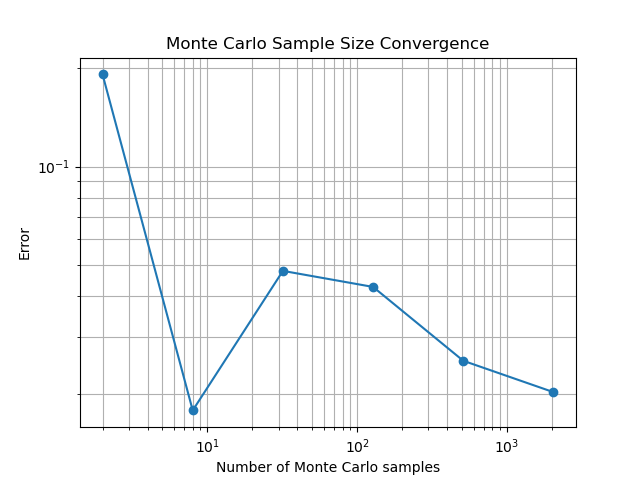
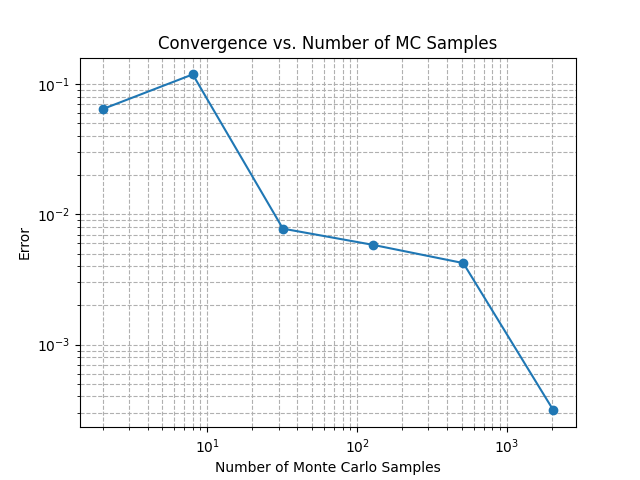
Add files via upload
codes and pictures for full question 1

diff --git a/SCDAA/LQR_Solver.py b/SCDAA/LQR_Solver.py
@@ -1,0 +1,254 @@
+import numpy as np
+import torch
+import matplotlib.pyplot as plt
+from scipy.integrate import solve_ivp
+import time
+
+class LQR_Solver:
+    """
+    A class to solve the strict LQR problem in 2 spatial and 2 control dimensions.
+    
+    It:
+      1. Accepts the matrices specifying the LQR problem, final time T, and a time grid.
+      2. Solves the Riccati ODE backwards in time:
+         S'(t) = S(t) M D⁻¹ Mᵀ S(t) - Hᵀ S(t) - S H - C, with S(T)=R.
+      3. Provides a method to compute the value function
+         v(t, x) = xᵀ S(t)x + ∫ₜᵀ tr(σσᵀ S(r)) dr.
+      4. Provides a method to compute the optimal Markov control:
+         a(t,x) = -D⁻¹ Mᵀ S(t)x.
+    """
+    def __init__(self, H, M, sigma, C, D, R, T, time_grid):
+        # All matrices are expected to be torch tensors.
+        self.H = H
+        self.M = M
+        self.sigma = sigma
+        self.C = C
+        self.D = D
+        self.R = R
+        self.T = T
+        self.time_grid = time_grid  # Assumed sorted in increasing order.
+        self.device = H.device
+        self.S_sol = None  # To store solution S(t) at grid points.
+        self.integral = None  # To store the cumulative integral term.
+
+    def riccati_ode(self, t, S_flat):
+        # Reshape the flat vector to a 2x2 matrix.
+        S = S_flat.reshape((2, 2))
+        # Invert D using numpy.
+        D_inv = np.linalg.inv(self.D.cpu().numpy())
+        # Compute S'(t) = S M D⁻¹ Mᵀ S - Hᵀ S - S H - C.
+        term1 = S @ self.M.cpu().numpy() @ D_inv @ (self.M.cpu().numpy().T) @ S
+        term2 = self.H.cpu().numpy().T @ S
+        term3 = S @ self.H.cpu().numpy()
+        S_dot = term1 - term2 - term3 - self.C.cpu().numpy()
+        return S_dot.flatten()
+
+    def solve_riccati(self):
+        # Terminal condition S(T) = R.
+        S_T = self.R.cpu().numpy().flatten()
+        # Solve the ODE backwards from T to 0. Note that we reverse the time grid.
+        t_eval = self.time_grid.cpu().numpy()[::-1]
+        sol = solve_ivp(fun=self.riccati_ode, t_span=(self.T, 0), y0=S_T, t_eval=t_eval, method='RK45')
+        # Reverse the solution to get increasing time order and reshape.
+        S_vals = sol.y[:, ::-1].T  # S_vals shape: (len(time_grid), 4)
+        # Create a contiguous copy to avoid negative stride issues.
+        S_vals = np.ascontiguousarray(S_vals.reshape((-1, 2, 2)))
+        self.S_sol = torch.tensor(S_vals, dtype=self.R.dtype, device=self.device)
+        
+        # Precompute the cumulative integral I(t) = ∫ₜᵀ tr(σσᵀ S(r)) dr using the trapezoidal rule.
+        sigma_sigmaT = self.sigma @ self.sigma.T  # 2x2 matrix.
+        traces = []
+        for i in range(len(self.time_grid)):
+            S_i = self.S_sol[i]
+            traces.append(torch.trace(sigma_sigmaT @ S_i).item())
+        traces = np.array(traces)
+        cum_integral = np.zeros_like(traces)
+        for i in range(len(self.time_grid)):
+            t_sub = self.time_grid[i:].cpu().numpy()
+            y_sub = traces[i:]
+            cum_integral[i] = np.trapz(y_sub, t_sub)
+        self.integral = torch.tensor(cum_integral, dtype=self.R.dtype, device=self.device)
+    
+    def get_S_at_time(self, t_query):
+        """
+        For a given time t_query, return S(t) at the largest grid time ≤ t_query.
+        """
+        idx = (self.time_grid <= t_query).nonzero()
+        if len(idx) == 0:
+            i = 0
+        else:
+            i = idx[-1].item()
+        return self.S_sol[i], i
+
+    def compute_value(self, t, x):
+        """
+        Computes the value function v(t, x) = xᵀ S(t)x + ∫ₜᵀ tr(σσᵀ S(r)) dr.
+        
+        Parameters:
+          t: 1D torch tensor of times.
+          x: 2D torch tensor where each row is a state vector.
+          
+        Returns:
+          A 1D torch tensor of values.
+        """
+        values = []
+        for i in range(len(t)):
+            t_i = t[i].item()
+            S_i, idx = self.get_S_at_time(t_i)
+            x_i = x[i].unsqueeze(-1)  # Convert to column vector.
+            val = (x_i.t() @ S_i @ x_i).squeeze() + self.integral[idx]
+            values.append(val)
+        return torch.stack(values)
+    
+    def compute_control(self, t, x):
+        """
+        Computes the optimal control a(t, x) = -D⁻¹ Mᵀ S(t)x.
+        
+        Parameters:
+          t: 1D torch tensor of times.
+          x: 2D torch tensor where each row is a state vector.
+          
+        Returns:
+          A 2D torch tensor where each row is the control vector.
+        """
+        controls = []
+        D_inv = torch.inverse(self.D)
+        for i in range(len(t)):
+            t_i = t[i].item()
+            S_i, _ = self.get_S_at_time(t_i)
+            x_i = x[i].unsqueeze(-1)
+            u_i = - D_inv @ (self.M.t() @ S_i) @ x_i
+            controls.append(u_i.squeeze())
+        return torch.stack(controls)
+
+
+def simulate_LQR_MC(lqr_solver, t0, x0, N, n_samples, scheme="explicit"):
+    """
+    Simulate the LQR controlled SDE:
+       dX = (H X + M a(t, X)) dt + sigma dW,
+    using the optimal control a(t, x) from the solved Riccati ODE.
+    
+    Parameters:
+      lqr_solver: Instance of LQR_Solver (with solved Riccati).
+      t0: Initial time (float).
+      x0: Initial state (torch tensor of shape (2,)).
+      N: Number of time steps.
+      n_samples: Number of Monte Carlo trajectories.
+      scheme: "explicit" (implicit scheme not implemented here).
+    
+    Returns:
+      avg_cost: Monte Carlo estimate of the cost.
+      X: Simulated trajectories (tensor of shape (n_samples, N+1, 2)).
+      t_grid: Time grid used for the simulation.
+    """
+    T = lqr_solver.T
+    tau = (T - t0) / N
+    t_grid = torch.linspace(t0, T, N+1, device=lqr_solver.device, dtype=lqr_solver.R.dtype)
+    X = torch.zeros(n_samples, N+1, 2, device=lqr_solver.device, dtype=lqr_solver.R.dtype)
+    X[:, 0, :] = x0
+    # Generate Brownian increments (dW ~ N(0, tau)).
+    dW = torch.randn(n_samples, N, 2, device=lqr_solver.device, dtype=lqr_solver.R.dtype) * np.sqrt(tau)
+    for n in range(N):
+        t_n = t_grid[n].repeat(n_samples)
+        x_n = X[:, n, :]
+        u_n = lqr_solver.compute_control(t_n, x_n)
+        # Drift: H*x + M*u.
+        drift = (lqr_solver.H @ x_n.unsqueeze(-1)).squeeze(-1) + (lqr_solver.M @ u_n.unsqueeze(-1)).squeeze(-1)
+        noise = (lqr_solver.sigma @ dW[:, n, :].unsqueeze(-1)).squeeze(-1)
+        X[:, n+1, :] = x_n + tau * drift + noise
+    # Compute cost: running cost ∫ₜᵀ (xᵀ C x + uᵀ D u) dt plus terminal cost x(T)ᵀ R x(T).
+    cost = torch.zeros(n_samples, device=lqr_solver.device, dtype=lqr_solver.R.dtype)
+    for n in range(N):
+        x_n = X[:, n, :]
+        t_n = t_grid[n].repeat(n_samples)
+        u_n = lqr_solver.compute_control(t_n, x_n)
+        running_cost = (x_n.unsqueeze(1) @ lqr_solver.C @ x_n.unsqueeze(-1)).squeeze() + \
+                       (u_n.unsqueeze(1) @ lqr_solver.D @ u_n.unsqueeze(-1)).squeeze()
+        cost += running_cost * tau
+    x_T = X[:, -1, :]
+    terminal_cost = (x_T.unsqueeze(1) @ lqr_solver.R @ x_T.unsqueeze(-1)).squeeze()
+    cost += terminal_cost
+    avg_cost = cost.mean().item()
+    return avg_cost, X, t_grid
+
+
+if __name__ == "__main__":
+    # ----------------------
+    # Problem constants (from Figure 1)
+    # ----------------------
+    dtype = torch.float64
+    device = "cpu"
+    H = torch.tensor([[1.0, 1.0], [0.0, 1.0]], dtype=dtype, device=device) * 0.5
+    M = torch.tensor([[1.0, 1.0], [0.0, 1.0]], dtype=dtype, device=device)
+    sigma = torch.eye(2, dtype=dtype, device=device) * 0.5
+    C = torch.tensor([[1.0, 0.1], [0.1, 1.0]], dtype=dtype, device=device) * 1.0
+    D = torch.tensor([[1.0, 0.1], [0.1, 1.0]], dtype=dtype, device=device) * 0.1
+    R = torch.tensor([[1.0, 0.3], [0.3, 1.0]], dtype=dtype, device=device) * 10.0
+    T = 0.5  # Final time for the simulation experiments.
+    
+    # ----------------------
+    # Solve the Riccati ODE (Exercise 1.1)
+    # ----------------------
+    time_grid = torch.linspace(0, T, 100, dtype=dtype, device=device)
+    lqr_solver = LQR_Solver(H, M, sigma, C, D, R, T, time_grid)
+    
+    print("Solving the Riccati ODE...")
+    start = time.time()
+    lqr_solver.solve_riccati()
+    end = time.time()
+    print(f"Riccati ODE solved in {end - start:.3f} seconds.")
+    
+    # Test the value function and control at t = 0 for states [1,1] and [2,2].
+    t_test = torch.tensor([0.0, 0.0], dtype=dtype, device=device)
+    x_test = torch.tensor([[1.0, 1.0], [2.0, 2.0]], dtype=dtype, device=device)
+    v_vals = lqr_solver.compute_value(t_test, x_test)
+    u_vals = lqr_solver.compute_control(t_test, x_test)
+    print("Value function at test points:", v_vals)
+    print("Optimal control at test points:", u_vals)
+    
+    # ----------------------
+    # Monte Carlo simulation (Exercise 1.2)
+    # ----------------------
+    # Compute the exact value at t = 0 and x = [1,1] using the solver.
+    exact_value = lqr_solver.compute_value(torch.tensor([0.0], dtype=dtype, device=device),
+                                             torch.tensor([[1.0, 1.0]], dtype=dtype, device=device)).item()
+    '''
+    # 1. Vary the number of time steps with a fixed number of samples.
+    n_time_steps_list = [2**k for k in range(1, 12)]  # e.g., 2, 4, 8, ..., 2048.
+    n_samples = 10000
+    errors = []
+    print("\nMonte Carlo simulation: varying number of time steps")
+    for N in n_time_steps_list:
+        avg_cost, _, _ = simulate_LQR_MC(lqr_solver, 0.0, torch.tensor([1.0, 1.0], dtype=dtype, device=device), N, n_samples)
+        error = abs(avg_cost - exact_value)
+        errors.append(error)
+        print(f"N = {N:4d}, Monte Carlo cost = {avg_cost:10.4f}, Exact value = {exact_value:10.4f}, Error = {error:10.4f}")
+    
+    plt.figure()
+    plt.loglog(n_time_steps_list, errors, marker='o')
+    plt.xlabel("Number of time steps")
+    plt.ylabel("Error")
+    plt.title("Convergence vs. Number of Time Steps")
+    plt.grid(True, which="both", ls="--")
+    plt.show()
+    plt.savefig("time_step_convergence.png")
+    '''
+    # 2. Vary the number of Monte Carlo samples with a fixed large number of time steps.
+    N_fixed = 10000
+    sample_list = [2*4**k for k in range(0, 6)]
+    errors_samples = []
+    print("\nMonte Carlo simulation: varying number of samples")
+    for n in sample_list:
+        avg_cost, _, _ = simulate_LQR_MC(lqr_solver, 0.0, torch.tensor([1.0, 1.0], dtype=dtype, device=device), N_fixed, n)
+        error = abs(avg_cost - exact_value)
+        errors_samples.append(error)
+        print(f"n_samples = {n:8d}, Monte Carlo cost = {avg_cost:10.4f}, Exact value = {exact_value:10.4f}, Error = {error:10.4f}")
+    
+    plt.figure()
+    plt.loglog(sample_list, errors_samples, marker='o')
+    plt.xlabel("Number of Monte Carlo Samples")
+    plt.ylabel("Error")
+    plt.title("Convergence vs. Number of MC Samples")
+    plt.grid(True, which="both", ls="--")
+    plt.show()
+    plt.savefig("mc_sample_convergence.png")
